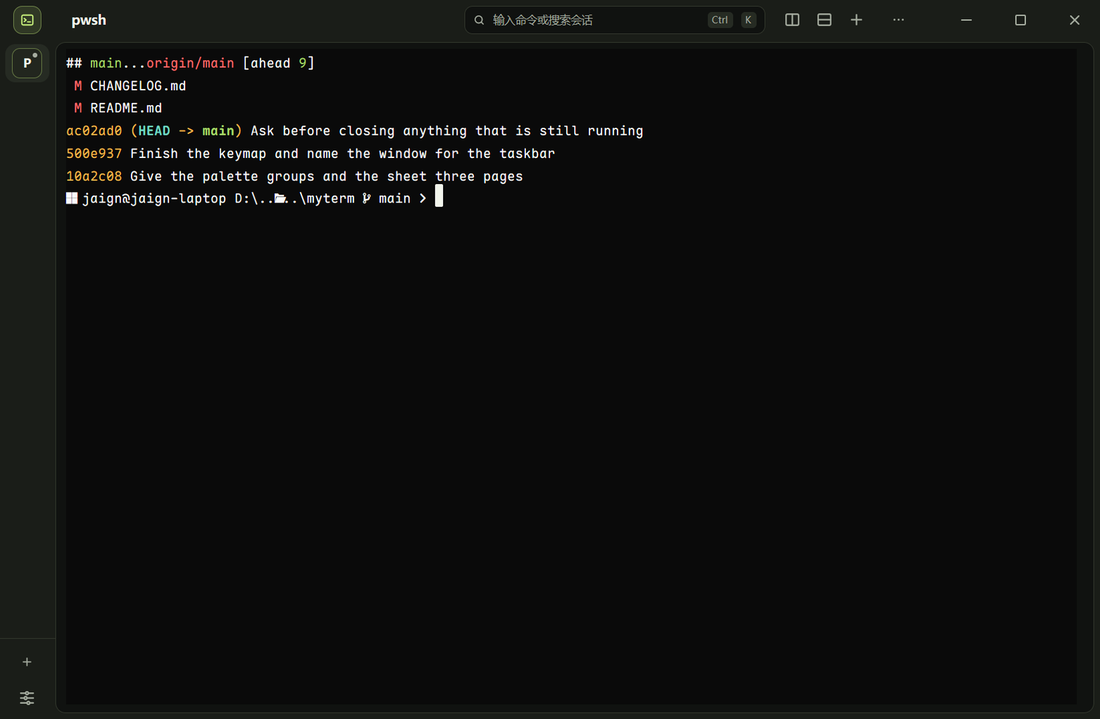
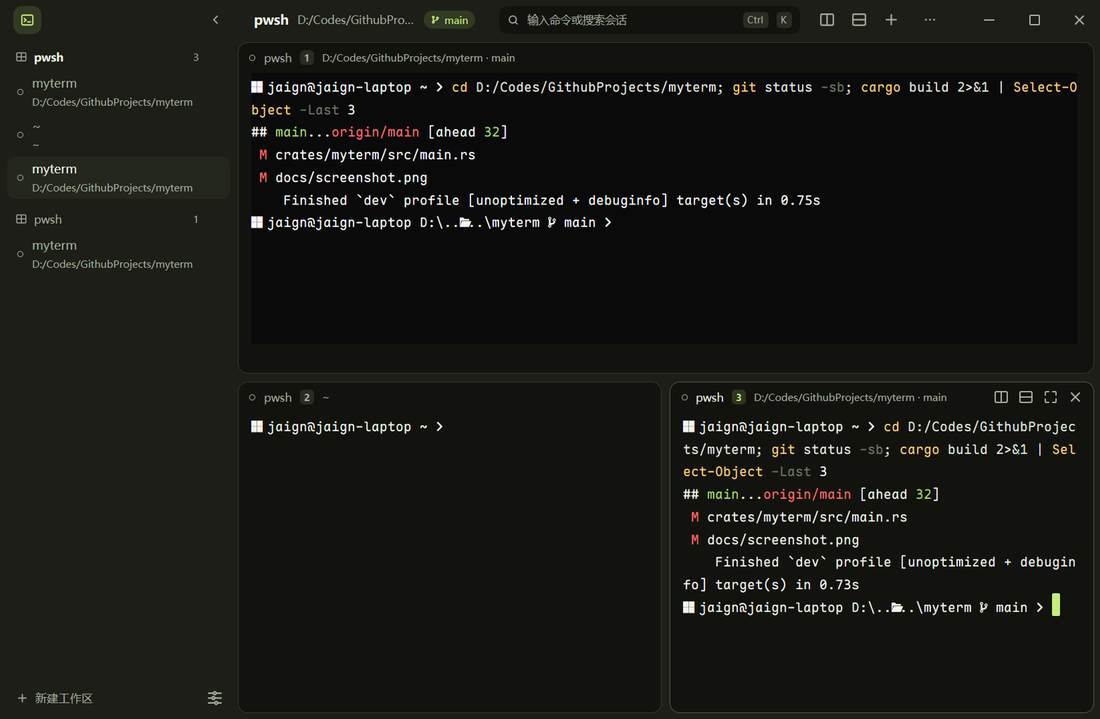
Rephotograph the readme and say what the window actually does now
The two screenshots were from 0.4.0 and showed a window that no longer exists:
a rail with capsules, a tab bar in the title, panes with rounded outlines on
four sides. They are taken again at the same 1100×719, with shell integration
on so the column's path lines and the bar's branch pill are actually in them —
the old ones could not show features that did not exist yet.

The readme's prose follows. The four decisions replace three, because the
surface rule is now the first thing about the window: one plane, and the
terminal as the only box on it. Focus is described as the border it is, not the
84% wash that was removed. The settings section says it is a column beside the
work rather than a drawer over it, and gains the shell-integration section that
explains why the path line can be empty.

Design notes follow the same changes.

diff --git a/README.md b/README.md
@@ -3,34 +3,36 @@
 一个为 Windows 写的终端。VT 解析交给 [libghostty-vt](https://lib.ghostty.org/vt/index.html) 的 C API，界面用 [GPUI Kit](https://gpui-kit.com)，其余每一层都是自己的代码，并且能单独测试。
 
 [![CI](https://github.com/tiramission/myterm/actions/workflows/ci.yml/badge.svg)](https://github.com/tiramission/myterm/actions/workflows/ci.yml)
-[![Release](https://img.shields.io/github/v/release/tiramission/myterm?label=release)](https://github.com/tiramission/myterm/releases/latest)
+[![Release](https://img.shields.io/github/release/tiramission/myterm?label=release)](https://github.com/tiramission/myterm/releases/latest)
 ![Windows](https://img.shields.io/badge/platform-Windows-0078d4)
 ![GPUI Kit](https://img.shields.io/badge/GPUI_Kit-0.9-4f7d14)
 
 <picture>
   <source media="(prefers-color-scheme: dark)" srcset="docs/screenshot-dark.png">
-  <img src="docs/screenshot.png" alt="myterm 的窗口：左侧窄条是工作区与它的窗格，右侧终端卡片上方是 44px 顶栏" width="880">
+  <img src="docs/screenshot.png" alt="myterm 的窗口：左侧是工作区栏，每行带路径；右侧三个终端窗格，顶栏显示当前目录与分支" width="880">
 </picture>
 
 终端渲染、键盘与中文输入、多工作区、分屏与拖动比例、选区与复制、滚轮回滚、查找、Kitty 图形协议、深浅主题、自动更新与安装都已人工验证。
 
-界面的样子与交互以 [docs/ui-prototype.html](docs/ui-prototype.html) 为准——那是一份可以直接打开、直接点的稿子，0.5.0 就是照它做的。为什么要这样做，写在 [docs/design.md](docs/design.md)。
+界面的样子与交互以 [docs/ui-prototype.html](docs/ui-prototype.html) 为准——那是一份可以直接打开、直接点的稿子。为什么要这样做，写在 [docs/design.md](docs/design.md)。
 
-## 三个决定
+## 四个决定
 
-**工作区在侧边，不在顶部。** 顶部那一行留给窗口本身：工作区的名字、它所在的目录、一条通往全部功能的命令入口，然后是分屏与窗口按钮。左侧一栏是工作区栏，默认是最窄的窄条——一个工作区一个方块，当前的那个整块带底色；展开后一行一个工作区，名字下面是 shell 报上来的目录。宽度只由你决定，分屏不会把它撑开。
+**窗口只有一块表面，只有终端是盒子。** 顶栏、侧栏、状态条、查找条、设置、命令面板、关于卡之间没有一条分割线，靠底色、阴影和留白分开。唯一的例外是终端窗格：它装的是文字，需要一圈边界才看得出「被容器装着」。分屏时那些卡片才画边；单个窗格铺满整个工作区，围一圈等于给视图本身画框。
 
-**窗格是卡片，外壳是底。** 卡片之间留 8px 的外壳色，那 8px 就是分隔线本身——不额外画线。指针停在间隙上会浮出一小段强调色手柄，说明这里能拖。
+**工作区在侧边，不在顶部。** 顶部那一行留给窗口本身：工作区的名字、它所在的目录、分支、一条通往全部功能的命令入口，然后是分屏与窗口按钮。左侧一栏是工作区栏——每个工作区一个组头，下面是它的窗格，每行两行字：**路径在前**，程序在后。三个都叫 `pwsh` 的窗格，靠的就是这一行路径来区分。
 
-**强调色只说明一件事：这里是当前。** 它用在应用标记、当前工作区的方块、键盘所在的窗格描边、可拖动的间隙，以及有输出的状态上；设置里可以从青柠换到琥珀、天蓝或紫。它不拿来装饰——所以看到它，它总在回答「现在在哪」或者「有东西在动」。
+**焦点是描边，不是压暗。** 拿到键盘的卡片把那条细线换深一档；其余卡片保持原样。把未聚焦的窗格调淡会让正在读的字褪色——亮色模式下尤其糟——而终端里的字是这个窗口唯一不能打折的东西。
+
+**强调色是预算，不是调色盘。** 它只说明「这里是当前」和「有东西在动」：应用标记、当前工作区、键盘所在的窗格描边、可拖动的间隙、光标、有输出的状态。换强调色（青柠 / 琥珀 / 天蓝 / 紫）会连带把窗口的中性色往同一个色相拉一点，所以整扇窗是一个家族，而不是一条描边在一扇绿窗里。
 
 ## 安装
 
 从 [Releases](https://github.com/tiramission/myterm/releases/latest) 下载 `myterm.exe` 直接运行即可，不需要管理员权限。
 
-第一次启动时标题栏下面会出现一条提示带，点「安装」把程序装到 `%LOCALAPPDATA%\Programs\myterm`：建开始菜单和桌面快捷方式、写入「设置 → 应用」里的卸载项，然后重启到装好的副本。之后启动自动检查新版本，标题栏出现徽章时点一下即可升级。
+第一次启动时顶栏下面会出现一条提示带，点「安装」把程序装到 `%LOCALAPPDATA%\Programs\myterm`：建开始菜单和桌面快捷方式、写入「设置 → 应用」里的卸载项，然后重启到装好的副本。之后启动自动检查新版本，顶栏出现徽章时点一下即可升级。
 
-卸载走同一个 `--uninstall`，在「设置 → 应用」里点卸载，或在信息浮层里点「卸载」。
+卸载走同一个 `--uninstall`，在「设置 → 应用」里点卸载，或在关于卡里点「卸载」。
 
 <img src="docs/icon-small.png" alt="" width="64" align="right">
 
@@ -38,7 +40,7 @@
 
 | 按键 | 作用 |
 | --- | --- |
-| `Ctrl+K` | 命令面板（命令、工作区、主题） |
+| `Ctrl+K` | 命令面板（命令、会话） |
 | `Ctrl+Shift+T` | 新建工作区 |
 | `Ctrl+Shift+Q` | 关闭工作区 |
 | `Ctrl+Shift+R` | 恢复刚关掉的工作区（6 秒内） |
@@ -64,38 +66,49 @@
 - **渲染**：自定义 `Element` 按行迭代绘制，支持粗体、斜体、下划线、反显、隐藏、删除线、上划线；宽字符占两格。默认字体 Maple Mono NF CN（自带中文字形与 Nerd Font 图标），未安装时回退到系统等宽字体。
 - **输入**：普通字符、功能键、方向键、`Ctrl` 组合键都交给解析器编码，所以 application cursor keys、modifyOtherKeys 等模式自动正确。
 - **中文输入**：窗格把自己注册为平台文本输入目标，输入法提交后写入 PTY；候选窗跟随光标。
-- **光标**：按终端请求显示竖线、下划线、空心块或实心块。实心块会把下面的字符反色重绘，光标压住的那一格仍然可读。
+- **光标**：竖线、块、下划线，或者跟随程序（shell 在提示符处换竖线）。块状时会把下面的字符反色重绘，光标压住的那一格仍然可读。
 - **选区**：按住左键拖动高亮，`Ctrl+Shift+C` 复制。没有选区时复制不做任何事——把整屏塞进剪贴板很少是想要的。
 - **滚轮**：回滚视口，超出半屏自动回到底部；有历史时右侧显示轨道与滑块。
+- **查找**：`Ctrl+Shift+F` 打开窗格内的查找条。走的是终端库自己的搜索接口，**覆盖回滚区**，不只是当前屏幕；`Enter` / `F3` 会在命中之间走，并把视口滚到那一条。
 - **退出提示**：进程退出后在窗格底部显示退出码，保留最后一帧输出。
 - **图形**：支持 Kitty 图形协议，`chafa -f kitty` 之类的输出会按声明的层与 z 序画进窗格；也回答 `CSI 14/16/18/19 t` 尺寸查询，图形程序因此能算出正确的单元格大小。
 
 ### 窗口与侧栏
 
 - **布局**：两列。左侧工作区栏贯穿整个高度，应用标记就在它要打开的角落里；右侧是 44px 顶栏
-  （工作区名 · 目录 · 命令入口 · 分屏与新建 · 应用菜单 · 窗口按钮）加上面的工作区。
+  （工作区名 · 目录 · 分支 · 命令入口 · 分屏与新建 · 应用菜单 · 窗口按钮）加上面的工作区。
 - **命令入口**：顶栏中间那条 `Ctrl+K` 的输入框是鼠标用户的入口。两组：命令与会话。会话行是
-  一个窗格，右侧写 `工作区 · 目录`，点了直接切过去并聚焦它。
-- **工作区栏**：窗口里唯一的工作区入口。展开时一行一个工作区，组头带字形、名字、窗格数与关闭叉；
-  单个窗格的工作区就是那一行，名字下面是 shell 报上来的目录。窄条时一个工作区一个方块，当前
-  工作区整块带底色，每个窗格一枚块，右上角是状态点。
+  **一个窗格**，右侧写 `工作区 · 目录`，点了直接切过去并聚焦它。
+- **工作区栏**：窗口里唯一的工作区入口。每个工作区一个组头（字形、名字、窗格数），下面是它的
+  窗格行；每行两行字，路径在前、程序在后，路径报不出来时才退回程序名。窄条时一个工作区一个方块，
+  当前工作区整块带底色，每个窗格一枚块，右上角是状态点。
 - **关闭**：窗格、工作区、窗口三种粒度走同一个确认卡，写明会结束几个终端；关掉的工作区在 6 秒内
   可以撤销，撤销窗口过期当它一起结束。
-- **主题**：跟随系统深浅色启动，`Ctrl+Shift+L` 或标题栏按钮切换。终端前景、背景、光标与 ANSI 16 色一起换，不只是外壳——这些值也注入解析器，所以查询颜色的程序得到和屏幕一致的结果。
+- **主题**：跟随系统深浅色启动，`Ctrl+Shift+L` 或应用菜单切换。终端前景、背景、光标与 ANSI 16 色一起换，不只是外壳——这些值也注入解析器，所以查询颜色的程序得到和屏幕一致的结果。
 
 ### 设置
 
-- **三页**：外观（主题、密度、强调色）、终端（默认 shell、字号）、快捷键。
-- **立即生效**：每一项改完当场生效并写盘，遮罩只有 12%，改字号时终端就在旁边跟着变。
+设置是工作区右侧的一列，不是浮在终端上的卡片：改字号时左边的网格就在旁边变，窗格既不缩小也不被遮住。
+
+- **三页**：外观（主题、密度、强调色）、终端（默认 shell、字号、光标、回滚行数、shell 集成）、快捷键。
+- **立即生效**：每一项改完当场生效并写盘。
 - **配置文件**：`%LOCALAPPDATA%\myterm\config.txt`，平铺的 `key = value`；坏行、未知键、越界值
   都会被忽略，文件损坏只会退回默认值而不会让程序打不开。
+
+### shell 集成
+
+侧栏的路径、顶栏的目录和分支，都要 shell 自己报出来（OSC 7）。PowerShell 默认不报，所以这两处
+在它下面一直是空的——除非打开设置里的「shell 集成」。
+
+打开后新窗格用包装过的提示符启动：保存原来的 `prompt` 函数，先写一段 OSC 7，再调用它。默认关闭，
+因为它改写的是用户的提示符；也只对之后新建的窗格生效，正在跑的 shell 没法从外部改提示符。
+目前只覆盖 PowerShell——`cmd` 没有可包装的提示符函数，`wsl` 跑的是另一个 shell。
 
 ### 分屏
 
 - 左右 `Ctrl+Shift+D`、上下 `Ctrl+Shift+E`、关闭 `Ctrl+Shift+W`，`Alt+方向键` 按几何位置切换。
-- 分成多个窗格后，每张卡片顶部多一行窗格头（状态点、名字，悬停时出现分屏 / 缩放 / 关闭）。单窗格时不显示——侧栏已经说了它是谁。
-- **焦点是更亮的一条线**：拿到键盘的卡片把那条中性细线换成更亮的一档，其余卡片退到 84%。
-  强调色在这片区域只说明「哪个工作区是当前的」，不被窗格借用。
+- 分成多个窗格后，每张卡片顶部多一行窗格头（状态、名字、序号、`目录 · 分支`，右边是分屏 / 缩放 / 关闭）。单窗格时不显示——侧栏已经说了它是谁。
+- **焦点是更亮的一条线**：拿到键盘的卡片把那条中性细线换深一档，其余卡片原样。强调色在这片区域只说明「哪个工作区是当前的」，不被窗格借用。
 - 缩放是临时的：`zoomed` 只影响渲染，布局树不动，放开时每个窗格回到原处。
 
 ## 构建
@@ -110,7 +123,7 @@
 
 ```sh
 cargo run -p myterm                       # 打开窗口
-cargo test --workspace                    # VT 绑定、布局、安装、版本比较
+cargo test --workspace                    # VT 绑定、布局、搜索、配置、安装、版本比较
 cargo clippy --workspace --all-targets    # CI 把警告当错误
 cargo fmt --all --check
 ```
@@ -120,9 +133,9 @@ cargo fmt --all --check
 ```
 crates/
   vt-sys/   libghostty-vt 1.0.1 的裸 FFI 声明 + 预编译静态库
-  vt/       安全封装：所有权、错误、颜色、渲染状态、按键编码、图形
+  vt/       安全封装：所有权、错误、颜色、渲染状态、按键编码、图形、搜索
   pty/      ConPTY 进程与读写线程
-  myterm/   GPUI Kit 界面：侧栏、窗格、渲染、快捷键、更新与安装
+  myterm/   GPUI Kit 界面：侧栏、窗格、渲染、快捷键、设置、更新与安装
 ```
 
 依赖只向下：`myterm → pty/vt → vt-sys`。`vt-sys` 之外没有 `unsafe`。
@@ -131,9 +144,9 @@ crates/
 
 ## 已知限制
 
-- **系统磨砂材质透不出来**：Windows 后端通过 DirectComposition 呈现不透明表面，DWM 的 Mica / Acrylic 被它盖住。标题栏改用比网格更浅的外壳色来分层。
+- **系统磨砂材质透不出来**：Windows 后端通过 DirectComposition 呈现不透明表面，DWM 的 Mica / Acrylic 被它盖住。窗口改用比网格更浅的外壳色来分层。
 - **只有 Windows。**
-- **查找只覆盖当前屏幕**：终端库只把视口内的行交给渲染层，没有可遍历的回滚缓冲。
-- **侧栏的目录来自 shell 的 OSC 标题**：shell 不报路径时那一行留空，没有进程目录查询。
+- **路径与分支依赖 shell 报告**：默认的 PowerShell 不报，需要打开「shell 集成」；`cmd` 与 `wsl` 暂不支持。
+- **撤销只到工作区**：关掉的窗格不可恢复。
 - **自动更新只替换可执行文件**，不处理同目录的其他文件；目前也只有这一个文件。
 - **字体依赖本机**安装 Maple Mono NF CN。
